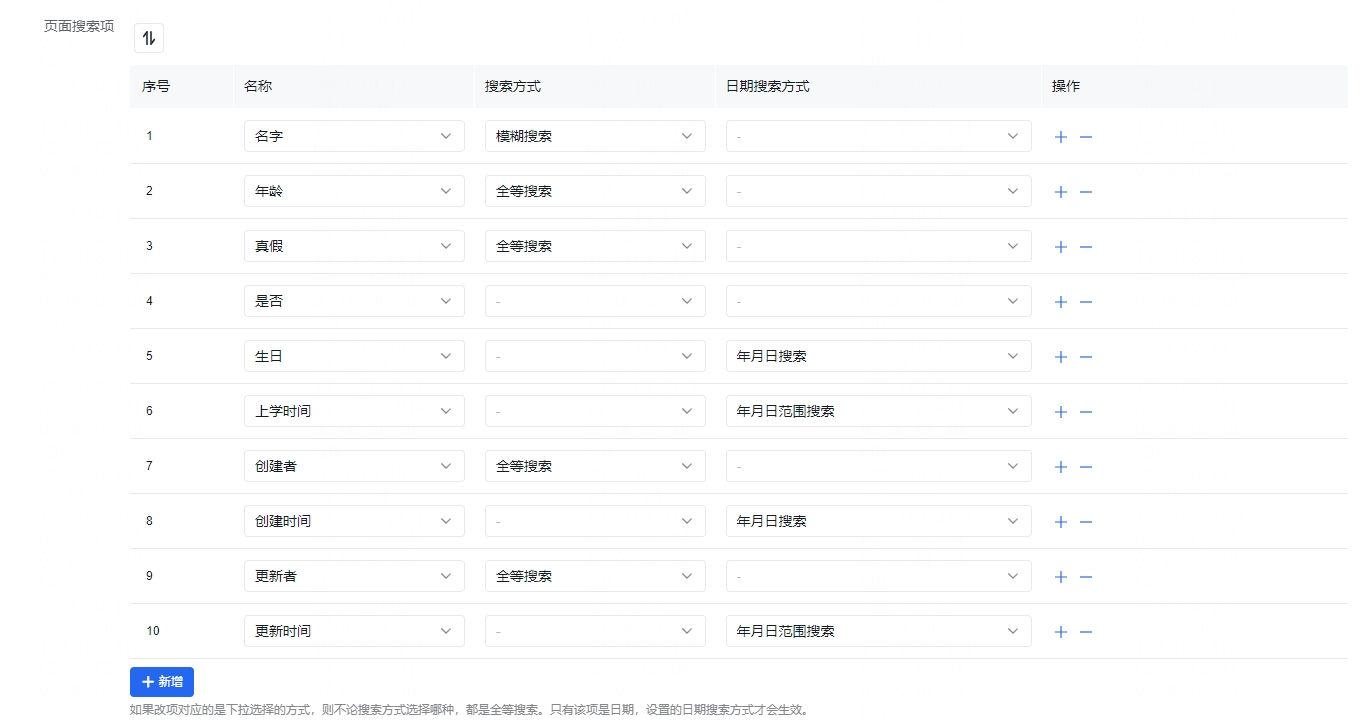
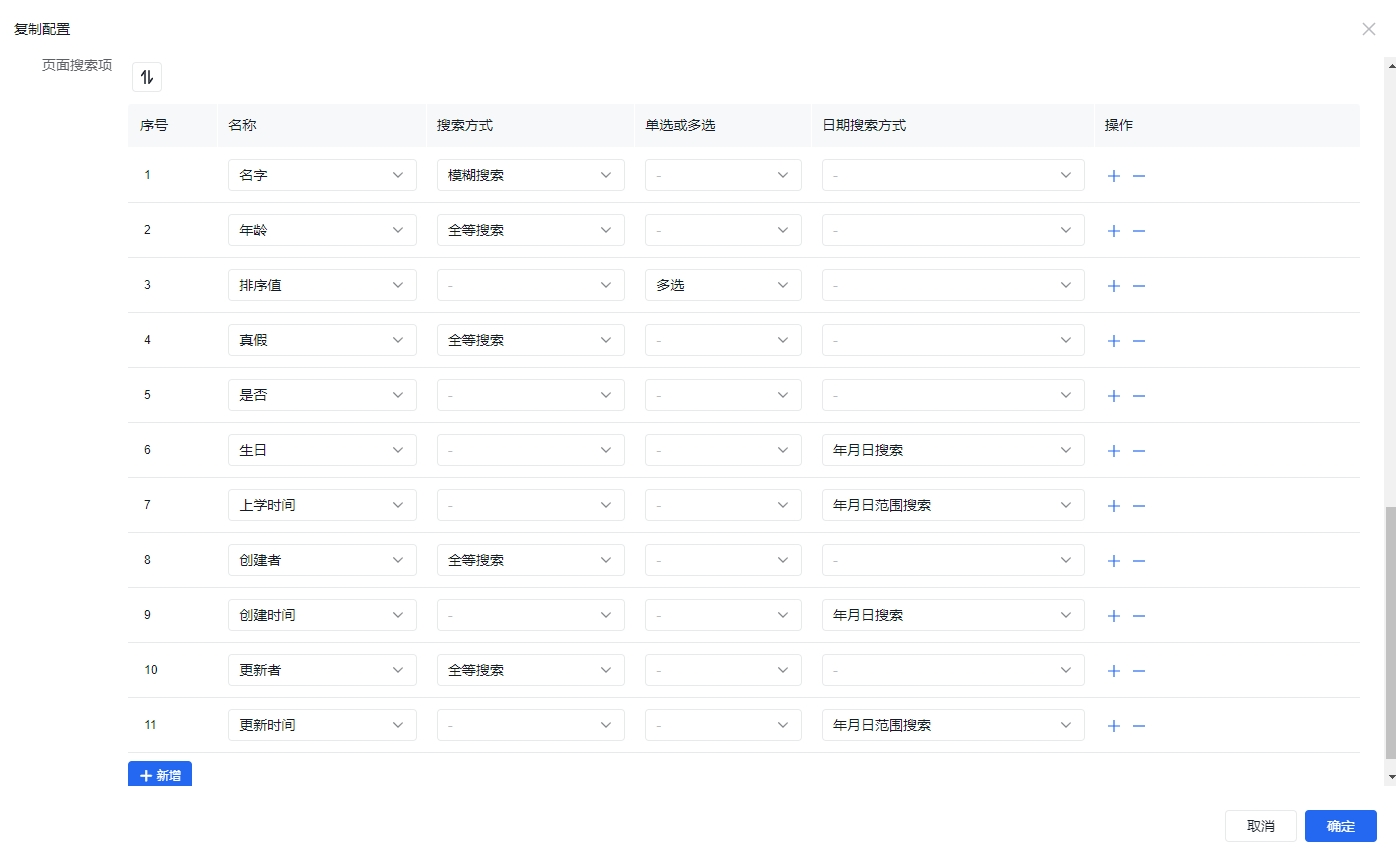
feat: 更新文档

diff --git a/src/.vuepress/config.ts b/src/.vuepress/config.ts
@@ -4,7 +4,7 @@ import { cut } from "nodejs-jieba";
 import { searchProPlugin } from "vuepress-plugin-search-pro";
 
 export default defineUserConfig({
-  base: "/react-amis-docs/",
+  base: "/",
 
   lang: "zh-CN",
   title: "泛积木-低代码",
@@ -16,7 +16,7 @@ export default defineUserConfig({
       `var _hmt = _hmt || [];
       (function() {
         var hm = document.createElement("script");
-        hm.src = "https://hm.baidu.com/hm.js?31a3c177589348e7ac3e6bbf638624d7";
+        hm.src = "https://hm.baidu.com/hm.js?9465de436a3cfb6d7b1a2fa80fe89e36";
         var s = document.getElementsByTagName("script")[0]; 
         s.parentNode.insertBefore(hm, s);
       })();`

diff --git a/src/README.md b/src/README.md
@@ -26,6 +26,9 @@ highlights:
     bgImageDark: https://img.fxss.work/bg2-dark.svg
     highlights:
       - title: 前端页面只需部署一次，后续开发及上线都在网站内，极速上线。
+      - title: 一套代码支持 开发、测试、正式 3重环境。
+      - title: 支持 开发、测试 环境切换版本。
+      - title: 支持版本查看、发布版本、版本历史、代码对比。
 
   - header: 功能项
     image: /assets/image/features.svg
@@ -56,11 +59,6 @@ highlights:
         icon: copy
         details: 通过拖拽配置、所见即所得
         link: ./use/page.html#可视化页面编辑器
-
-      - title: 代码比对
-        icon: code-compare
-        details: 页面多版本并行开发时，通过代码比对进行代码更新
-        link: ./use/page.html#页面版本
 
       - title: 网站配置
         icon: tv
@@ -111,6 +109,31 @@ highlights:
         icon: table
         details: 通过配置生成增删改查（会直接生成数据表+页面，并支持配置页面内的搜索内容）
         link: ./use/crud.md
+
+      - title: 代码比对
+        icon: code-compare
+        details: 页面多版本并行开发时，通过代码比对进行代码更新
+        link: ./use/codeCompare.md
+
+      - title: 版本设置
+        icon: code-branch
+        details: 设置本地版本，用于开发环境和测试环境的版本控制
+        link: ./use/versionSet.md
+
+      - title: 页面版本
+        icon: timeline
+        details: 用于查看页面的所有版本（类似于查看所有代码分支）
+        link: ./use/pageVersion.md
+
+      - title: 页面发版
+        icon: tag
+        details: 用于控制页面版本发布
+        link: ./use/pageRelease.md
+
+      - title: 发版历史
+        icon: tags
+        details: 用于查看发布历史
+        link: ./use/releaseHistory.md
 
   - header: 演示示例
     description: 常用功能的演示示例。

diff --git a/src/use/dictionary.md b/src/use/dictionary.md
@@ -16,7 +16,65 @@ date: 2023-10-15
 
 ![新增字典数据](./images/dictionary/20231015154839.png)
 
-新增字典数据的时候，需要填入字典标识、字典名称、字典值，字典标识请设置 **英文驼峰**，字典名称主要是中文名称，字典值对应 json 数据结构。
+新增字典数据的时候，需要填入字典标识、字典名称、字典值，字典标识请设置 **英文驼峰**，字典名称主要是中文名称，**字典值对应 json 数据结构**。
+
+数据字典一般用于[下拉框](https://aisuda.bce.baidu.com/amis/zh-CN/components/form/options)，为了方便使用，其`labelField`选项显示字段为`label`，`valueField`选项值字段为`value`，所以以如下结构是最方便使用的：
+
+```json
+[
+  {
+    "label": "显示内容",
+    "value": "值"
+  },
+  {
+    "label": "显示内容",
+    "value": "值"
+  },
+  ...
+]
+```
+
+当然如果要使用其他字段的话也是可以的，例如：
+
+```json
+[
+  {
+    "name": "显示内容",
+    "id": "值"
+  },
+  {
+    "name": "显示内容",
+    "id": "值"
+  },
+  ...
+]
+```
+
+则这个时候需要配置 `labelField` 和 `valueField` 字段，例如 [选项标签字段 labelField](https://aisuda.bce.baidu.com/amis/zh-CN/components/form/options#%E9%80%89%E9%A1%B9%E6%A0%87%E7%AD%BE%E5%AD%97%E6%AE%B5-labelfield)，
+
+```json
+{
+  "label": "选项",
+  "type": "select",
+  "name": "select",
+  "labelField": "name",
+  "valueField": "id",
+  "options": [
+    {
+      "name": "A",
+      "id": "a"
+    },
+    {
+      "name": "B",
+      "id": "b"
+    },
+    {
+      "name": "C",
+      "id": "c"
+    }
+  ]
+}
+```
 
 在界面内我们可以点击操作栏内的 **id获取** / **key获取** ，然后在控制台 Network 内查看 ，这是字典数据提供的两种获取数据的模式，两种获取方式都是 `get` 请求，可以在表格内复制对应的链接。
 

diff --git a/src/guide/order.md b/src/guide/order.md
@@ -8,14 +8,9 @@ date: 2023-07-01
 
 泛积木-低代 使用前需要在 [授权网站](https://jimu.fxss.work) (授权网站即是使用泛积木-低代码搭建) 注册登录 -> 用户订单 -> 订单列表 -> 新增订单 下单，下单付款之后，我们会尽快安排低代码制作，并以邮件发送至您的邮箱。
 
-当前泛积木-低代码包含两个版本：
+当前泛积木-低代码版本为 **MySQL版本** 原价 5999 元，**现价 3999 元**（子域名授权、永久使用权），MySQL版本数据库使用的是 [MySQL](https://www.mysql.com/) 。
 
-1. **MySQL版本**: 原价 5999 元，**现价 2999 元**（子域名授权、永久使用权）;
-2. **SQLite版本**: 原价 5999 元，**现价 2999 元**（子域名授权、永久使用权）。
-
-两个版本的区别，MySQL版本数据库使用的是 [MySQL](https://www.mysql.com/) ，SQLite版本数据库使用的是 [SQLite](https://www.sqlite.org/index.html) 轻量数据库。
-
-注意：最终代码是打包后的代码，提供 [适配对接](/use/abutment.md) 方式。
+**注意：最终代码是打包后的代码，提供 [适配对接](/use/abutment.md) 方式。**
 
 在下单的时候输入 **邀请码** 还可获得折扣优惠，以下是平台的邀请码，当您有完整订单（支付处理完成的订单），您也可以在 用户中心 -> 邀请码 点击生成您自己的邀请码，所有邀请码的折扣优惠是一致的。当订单支付处理完成时，订单的邀请码对应的用户还可获得积分，积分可用于之后的下单抵扣（1:1抵扣，1积分等于1元，积分抵扣无限制，有多少积分即可抵扣多少元）。
 

diff --git a/src/guide/intro.md b/src/guide/intro.md
@@ -35,22 +35,33 @@ date: 2023-07-01
 
 泛积木-低代码包含以下功能（前后端共同实现）：
 
-1. 登录；
-2. 注册；
-3. 重置密码；
-4. 验证码（**项目验证码发送采用邮箱模式**）；
-5. 页面权限控制（浏览、编辑、删除）；
-6. 页面启用、禁用；
-7. 页面对外（不登录即可查看）；
-8. 页面版本控制；
-9. 可视化页面编辑器；
-10. 界面化配置菜单；
-11. 邮箱通知；
-12. 用户管理；
-13. 页面浏览量；
-14. 代码版本比对；
-15. PC、M双UI；
-16. debug模式；
-17. 查看日志；
-18. 网站页脚自定义配置；
-19. 适配对接。
+1. 登录、注册、重置密码；
+2. 验证码（**项目验证码发送采用邮箱模式**）；
+3. 页面权限控制（浏览、编辑、删除）及操作按钮权限控制；
+4. 页面支持启用、禁用，对外（不登录即可查看）功能；
+5. 可视化页面编辑器；
+6. PC、M双UI；
+7. debug模式；
+8. 网站页脚自定义配置；
+9. 查看日志；
+10. 适配对接。
+11. 系统设置包含以下功能：
+    1. 权限设置；
+    2. 菜单设置；
+    3. 系统配置；
+    4. 数据字典；
+    5. CRUD增删改查生成器;
+    6. mock数据；
+    7. 浏览量统计；
+12. 用户中心包含以下功能：
+    1. 个人中心；
+    2. 用户列表；
+13. 代码管理包含以下功能：
+    1. 版本设置；
+    2. 页面版本；
+    3. 页面发版；
+    4. 发版历史；
+    5. 代码比对；
+14. 文件管理包含以下功能：
+    1. 文件目录；
+    2. 文件上传。

diff --git a/src/use/pageVersion.md b/src/use/pageVersion.md
@@ -1,0 +1,39 @@
+---
+title: 页面版本
+icon: timeline
+order: 17
+isOriginal: true
+date: 2023-10-22
+---
+
+![页面版本](./images/pageVersion/20231022181246.png)
+
+**代码管理** / **页面版本** 提供了查看所有页面版本的功能，可以查看到每个页面对应的线上版本，可以在此页面进行代码对比、查看代码、查看页面、删除页面版本等功能。
+
+## 代码对比
+
+我们可以选择相同页面不同版本、或者是不同页面进行代码对比，
+
+![代码对比](./images/pageVersion/20231022181335.png)
+![相同页面不同版本对比](./images/pageVersion/20231022182635.png)
+![不同页面进行代码对比](./images/pageVersion/20231022182501.png)
+
+选择页面版本的时候需要注意，**选中的第一项作为对比版本，选中的第二项作为可以调整的版本**。
+
+不同页面进行代码对比，可以把需要复制粘贴的作为对比版本，对比进行调整。
+
+## 查看代码
+
+我们也可以在页面版本页面查看代码，进行调整更新。
+
+![查看代码](./images//pageVersion/20231022181559.png)
+
+## 查看页面
+
+我们也可以在页面版本页面查看页面。
+
+![查看代码](./images//pageVersion/20231022181624.png)
+
+## 删除
+
+只有非选中版本（也就是非正式环境的版本可以删除）。

diff --git a/src/use/crud.md b/src/use/crud.md
@@ -52,8 +52,9 @@ date: 2023-10-15
 上面罗列了一些举例数据，其中名称是必填项，各个字段的详细描述如下：
 
 1. 名称：对应数据表信息内的名称；
-2. 搜索方式：`int, float, double, varchar, text, longtext` 类型的搜索方式，支持 全等搜索 和 模糊搜索；
-3. 日期搜索方式：`datetime` 类型的搜索方式，支持 年月日搜索 和 年月日范围搜索。
+2. 搜索方式：`int, float, double, varchar, text, longtext` 类型的搜索方式，支持 全等搜索 和 模糊搜索，不配置则默认为 **全等搜索**；
+3. 单选或多选：当数据配置的为 数据字典、对应数据、创建者、更新者 的时候，可以配置单选或多选搜索，不配置则默认为 **单选搜索**，单选或多选搜索都为 **全等搜索**，不支持 模糊搜索；
+4. 日期搜索方式：`datetime` 类型的搜索方式，支持 年月日搜索 和 年月日范围搜索，不配置则默认为 **年月日搜索**。
 
 ### 页面中的权限说明
 

diff --git a/src/use/versionSet.md b/src/use/versionSet.md
@@ -1,0 +1,15 @@
+---
+title: 版本设置
+icon: code-branch
+order: 16
+isOriginal: true
+date: 2023-10-22
+---
+
+我们在项目开发来新需求的时候，我们一般都会新开分支，然后在新的分支上开发调整，这方面泛积木-低代码也考虑到了。
+
+![版本设置](./images/versionSet/20231022174406.png)
+
+首先每次来新需求的时候，我们暂定一个版本，例如说 2.0.0 ，进入需要修改页面的 可视化编辑页面（之后简称为开发环境），点击保存 新增 2.0.0 版本，一般新建的页面是 1.0.0 版本，我们需要在 开发环境 新建 2.0.0 版本。
+
+然后我们在 **代码管理** / **版本设置** 页面将本地版本设置为 2.0.0 版本，之后在 编辑页面（之后成为测试环境）和开发环境 浏览编辑页面的时候，页面会优先查看当前页面是否有 2.0.0 版本，如果有则直接显示 2.0.0 版本的代码，如果没有则会选择 正式环境 页面对应的版本。

diff --git a/src/use/page.md b/src/use/page.md
@@ -36,7 +36,7 @@ date: 2023-07-01
 
 ## 页面版本
 
-页面版本的使用场景为一个页面上的功能遇到并行开发的时候进行使用，进入可视化页面编辑器页面之后，直接保存新的版本。注意**进入页面的时候会默认展示页面配置内的版本，需要自行切换到对应版本开发**。
+页面版本就是代码分支的一种体现，使用场景为一个页面上的功能遇到并行开发的时候进行使用，进入可视化页面编辑器页面之后，直接保存新的版本。注意**进入页面的时候会默认展示页面配置内的版本，需要自行切换到对应版本开发**。
 
 页面多个版本开发之后，会遇到代码合并的问题，可以在代码对比页面进行代码对比更新：
 

diff --git a/src/use/releaseHistory.md b/src/use/releaseHistory.md
@@ -1,0 +1,20 @@
+---
+title: 发版历史
+icon: tags
+order: 19
+isOriginal: true
+date: 2023-10-22
+---
+
+![发版历史](./images/releaseHistory/20231022184949.png)
+
+在 **代码管理** / **发版历史** 页面我们可以查看往期发版内容，点击某项的详情可以查看发版时的所有信息：
+
+![发版详情](./images/releaseHistory/20231022185011.png)
+
+在发版详情里面我们可以查看发版时的页面代码和页面内容（后端接口如果采用不同版本的话，此时页面是不会报错的）：
+
+![页面代码](./images/releaseHistory/20231022185242.png)
+![页面内容](./images/releaseHistory/20231022185306.png)
+
+删除功能只会删除发版记录，不会对其他功能有影响。

diff --git a/src/use/mock.md b/src/use/mock.md
@@ -16,6 +16,6 @@ date: 2023-10-15
 
 ![新增mock数据](./images/mock/20231015152211.png)
 
-新增mock数据的时候，需要填入mock标识、mock名称、mock值，mock标识请设置 **英文驼峰**，mock名称主要是中文名称，mock值对应 json 数据结构。
+新增mock数据的时候，需要填入mock标识、mock名称、mock值，mock标识请设置 **英文驼峰**，mock名称主要是中文名称，**mock值对应 json 数据结构**。
 
 在界面内我们可以点击操作栏内的 **id获取** / **key获取** ，然后在控制台 Network 内查看 ，这是mock数据提供的两种获取数据的模式，两种获取方式都是 `get` 请求，可以在表格内复制对应的链接。

diff --git a/src/use/pageRelease.md b/src/use/pageRelease.md
@@ -1,0 +1,21 @@
+---
+title: 页面发版
+icon: tag
+order: 18
+isOriginal: true
+date: 2023-10-22
+---
+
+![页面发版](./images/pageRelease/20231022184416.png)
+
+在 **代码管理** / **页面发版** 页面我们必须输入版本进行搜索，会把所有次版本的页面筛选出来，选择版本进行发布。
+
+**发版时：页面启用的只会更新版本，禁用的会启用并更新版本，发版页面会自动将其所有的祖先目录启用。**
+
+![确认发版](./images/pageRelease/20231022184438.png)
+
+在每项发版后面我们可以查看代码和查看页面。
+
+![查看代码](./images/pageRelease/20231022184718.png)
+
+![查看页面](./images/pageRelease/20231022184734.png)
